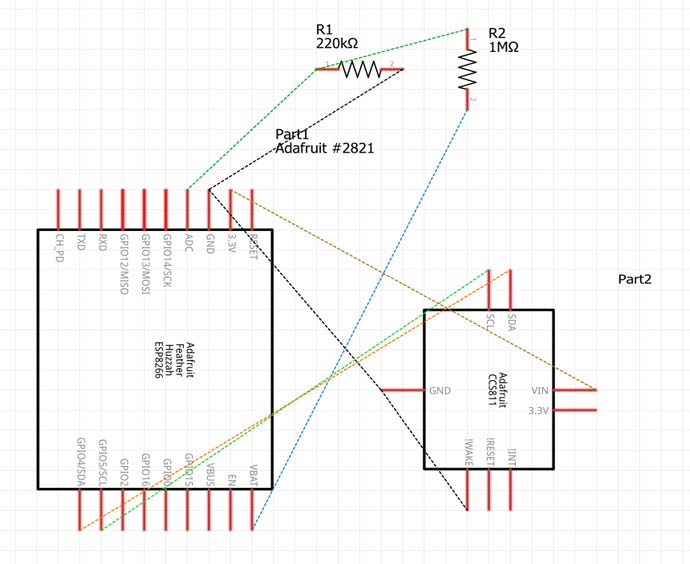
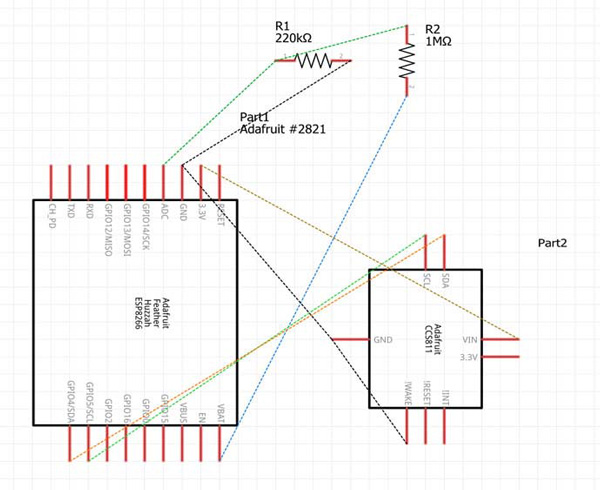
ESP8266, CCS811 + SSD1306 Code Test, update README

diff --git a/README.md b/README.md
@@ -5,7 +5,7 @@ A WiFi Air Quality App with Data Logging intended for indoor air quality monitor
 The WiFi Air Quality App uses an Adafruit CCS811 Air Quality Sensor to take readings in real time and then transmit the data wirelessly via WiFi with the Adafruit Feather HUZZAH ESP8266 WiFi Development Board to a Firebase real-time cloud database, and then displaying the results using a React.js website interface.
 
 
-__Project Status - In Process - Updated, 08/28/2018__
+__Project Status - In Process - Updated, 08/29/2018__
 
 ----
 
@@ -14,9 +14,10 @@ __Project Status - In Process - Updated, 08/28/2018__
   -  WiFi Air Quality App Description
   -  Features to Have 
   -  Hardware Used for Project
-  -  Schematic of Hardware Layout
+  -  Breadboard & Schematic Layouts
   -  Code Used for Programming Hardware
   -  Website Technologies 
+  -  The Build Process
   -  How to Use This App
   -  File and Directory Structure
   -  Revision History
@@ -47,37 +48,56 @@ __<u>Parts List</u>__
 - (1) Adafruit CCS811 Air Quality Sensor Breakout Board - VOC and eCO2  [Get @ Adafruit](https://www.adafruit.com/product/3566)
 - (1) 220K Ohm Resistor, 5%, 1/4 watt, Color code: Red, Red, Yellow, Gold
 - (1) 1M Ohm Resistor, 5%, 1/4 watt, Color code: Brown, Black, Green, Gold
-  
+- (1) SSD 1306 OLED Display, 0.96"  128x64
 
 
+------
 
-__<u>Breadboard Layout</u>__
+### Breadboard  & Schematic Layouts
+
+Description of the breadboard and schematic layouts used as going thru the build process.
+
+**ESP8266, CCS811 with Battery Divider Circuit** - 12/18/2017
+
+Adafruit Feather HUZZAH ESP8266 WiFi Board wired up with a Battery Divider Circuit and the Adafruit CCS811 Air Quality Sensor Breakout Board.
 
 ![WiFi Air Quality App Breadboard Layout](public/assets/img/esp8266-ccs811+batlev.jpg) 
 
-----
+![WiFi Air Quality App Schematic](C:/Users/Darryl/NCBC/GitHub/wifi-react-air-quality/public/assets/img/esp8266-ccs811+batlev-sch.jpg)
 
-### Schematic of Hardware Layout
+------
 
-![WiFi Air Quality App Schematic](public/assets/img/esp8266-ccs811+batlev-sch.jpg)
+**ESP8266, CCS811 & SSD1306 with Battery Divider Circuit** - 8/29/2018
+
+Adafruit Feather HUZZAH ESP8266 WiFi Board wired up with a Battery Divider Circuit and the Adafruit CCS811 Air Quality Sensor Breakout Board and a SSD1306 OLED Display.
+
+![WiFi Air Quality App Breadboard Layout](C:/Users/Darryl/NCBC/GitHub/wifi-react-air-quality/public/assets/img/ESP8266-CCS811-SSD1306-Battery-Divder-bb.png) 
+
+
+![WiFi Air Quality App Schematic using the ESP8266, CCS811 & SSD1306 with Battery Divider circuit](C:/Users/Darryl/NCBC/GitHub/wifi-react-air-quality/public/assets/img/ESP8266-CCS811-SSD1306-Battery-Divider-schem.png)
+
+
 
 ----
 
 ### Code Used for Programming Hardware
+
 Code used for programming the Adafruit Feather HUZZAH ESP8266 board is located in the directory  [feather_huzzah_esp8266_code](https://github.com/DKMitt/wifi-react-air-quality/tree/master/feather_huzzah_esp8266_code). 
 
 
 
 __<u>Definition of Code</u>__
 
-  * [esp8266_ccs811_test.ino](https://github.com/DKMitt/wifi-react-air-quality/blob/master/feather_huzzah_esp8266_code/esp8266_ccs811_test.ino)  -  Used to test hardware is setup correctly, sends data to serial monitor - Get code from within Arduino IDE by going to: __File->Examples->Adafruit_CCS811->CCS811_test__ 
+  * [esp8266_ccs811_test.ino](https://github.com/DKMitt/wifi-react-air-quality/blob/master/feather_huzzah_esp8266_code/esp8266_ccs811_test.ino)  -  Used to test the ESP8266 with the CCS811 without the Battery Divider Circuit to send data to the serial monitor - Get code from within Arduino IDE by going to:
+    __File->Examples->Adafruit_CCS811->CCS811_test__ 
 
     You should get the below output to your serial monitor
-    
-    ![Serail Monitor Output with Test Code](public/assets/img/ccs811-test-results-600.jpg)
-    
 
-  * [esp8266_ccs811.ino](https://github.com/DKMitt/wifi-react-air-quality/blob/master/feather_huzzah_esp8266_code/esp8266_ccs811.ino)  -  Used to test hardware and Firebase Database are setup correctly, sends data to serial monitor and to Firebase database - Incomplete - In Process of Coding 8/28/2018
+    ![Serail Monitor Output with Test Code](public/assets/img/ccs811-test-results-600.jpg)
+
+  * [esp8266_ccs811_ssd1306.ino](https://github.com/DKMitt/wifi-react-air-quality/blob/master/feather_huzzah_esp8266_code/esp8266_ccs811_ssd1306.ino)  -  Used to test the ESP8266 with the CCS811 and SSD1306 OLED 0.96" 128x64 Display without the Battery Divider Circuit - 8/29/2018
+
+  * [esp8266_ccs811.ino](https://github.com/DKMitt/wifi-react-air-quality/blob/master/feather_huzzah_esp8266_code/esp8266_ccs811.ino)  -  Used to test hardware and Firebase Database are setup correctly, sends data to serial monitor and to Firebase database - Incomplete - Not Coded as of yet
 
 
 
@@ -126,8 +146,21 @@ __<u>devDependencies</u>__
 
     react-scripts: ^1.1.5
 
-----
 
+
+------
+
+### The Build Process
+
+Description of how this project was started and the process of putting it together, this is not a tutorial.
+
+
+
+
+
+
+
+------
 
 ### How to Use This App
 
@@ -139,8 +172,8 @@ To start the app use the following command
 
   Open http://localhost:3000 to view it in the browser.
 
-----
 
+----
 
 ### File and Directory Structure
 
@@ -149,6 +182,8 @@ To start the app use the following command
 ├── feather_huzzah_esp8266_code
 │   │
 │   ├── esp8266_ccs811.ino
+│   │
+│   ├── esp8266_ccs811_ssd1306.ino
 │   │
 │   └── esp8266_ccs811_test.ino
 │ 
@@ -160,9 +195,13 @@ To start the app use the following command
 │   │       │
 │   │       ├── ccs811-test-results-600.jpg
 │   │       │
-│   │       ├── esp8266-ccs811+batlev.jpg ccs811-test-results-600.jpg
+│   │       ├── esp8266-ccs811+batlev.jpg
 │   │       │
-│   │       └── esp8266-ccs811+batlev-sch.jpg
+│   │       ├── esp8266-ccs811+batlev-sch.jpg
+│   │       │
+│   │       ├── ESP8266-CCS811-SSD1306-Battery-Divder-bb.png
+│   │       │
+│   │       └── ESP8266-CCS811-SSD1306-Battery-Divider-schem.png
 │   │
 │   ├── favicon.ico
 │   │
@@ -200,19 +239,23 @@ To start the app use the following command
 │
 └── README.md            
 ```
-----
+
+
+------
+
 ### Revision History 
 
-Description of revisions made to the app - __In Process, last updated 8/28/2018__
+Description of revisions made to the app - __In Process, last updated 8/29/2018__
 
-  - [x] Hardware / Dev - Breadboard Layout & Schematic - 8/26/2017  
-  - [x] Dev - file and directory structure creation  - 8/26/2017
+  - [x] Hardware / Dev - Breadboard layout & schematic - 8/26/2017  
+  - [x] Dev - File and directory structure creation  - 8/26/2017
   - [x] Dev - Firebase cloud database creation - 8/26/2017
-  - [x] Hardware - hardware assembly -  12/18/2017
-  - [x] Hardware / Dev - hardware Test coding - 12/18/2017
-  - [ ] Hardware / Dev - hardware coding & test to send data to Firebase database - 
-  - [x] Dev - update dependencies - 8/28/2018
-  - [ ] Dev - website wire framing -
-  - [ ] Dev - website coding - 
-  - [ ] Dev - file and directory structure cleanup - 
-  - [ ] Dev - final testing - 
+  - [x] Hardware - Hardware assembly - 12/18/2017
+  - [x] Hardware / Dev - Hardware test coding - ESP8266, CCS811 - 12/18/2017
+  - [x] Hardware / Dev - Hardware test coding - ESP8266, CCS811 & SSD1306 - 8/29/2018
+  - [ ] Hardware / Dev - Hardware coding & test to send data to Firebase database - 
+  - [x] Dev - Update dependencies - 8/28/2018
+  - [ ] Dev - Website wire framing -
+  - [ ] Dev - Website coding - 
+  - [ ] Dev - File and directory structure cleanup - 
+  - [ ] Dev - Final testing - 
